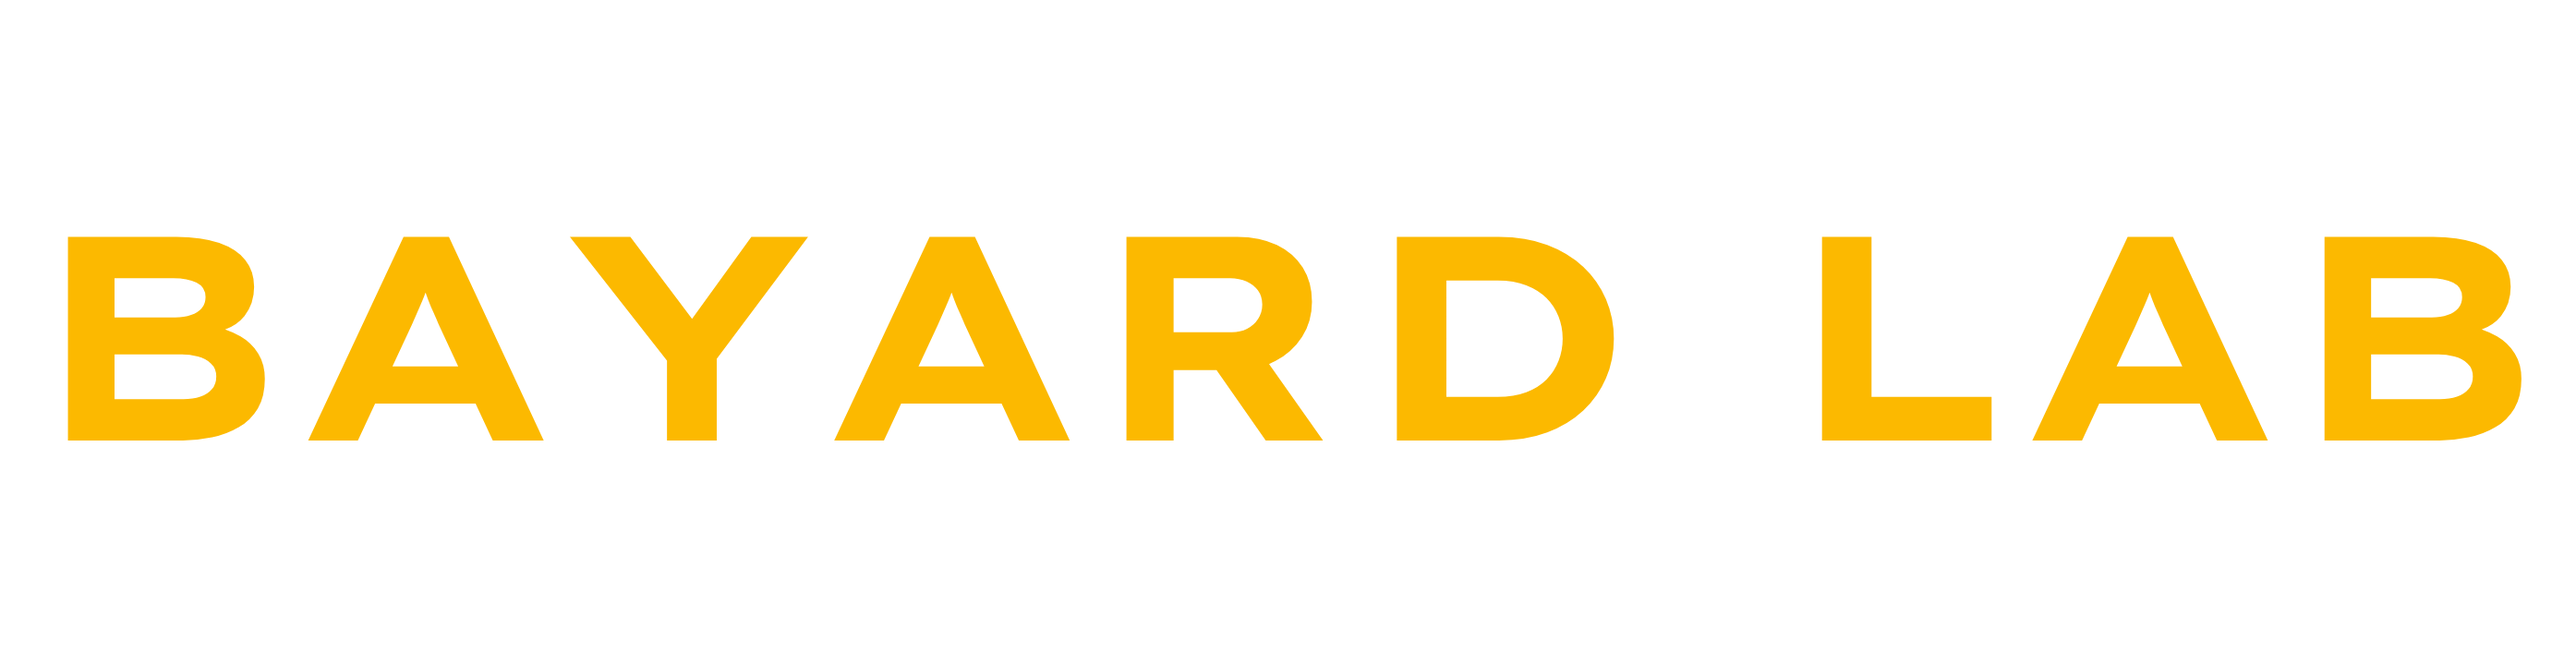
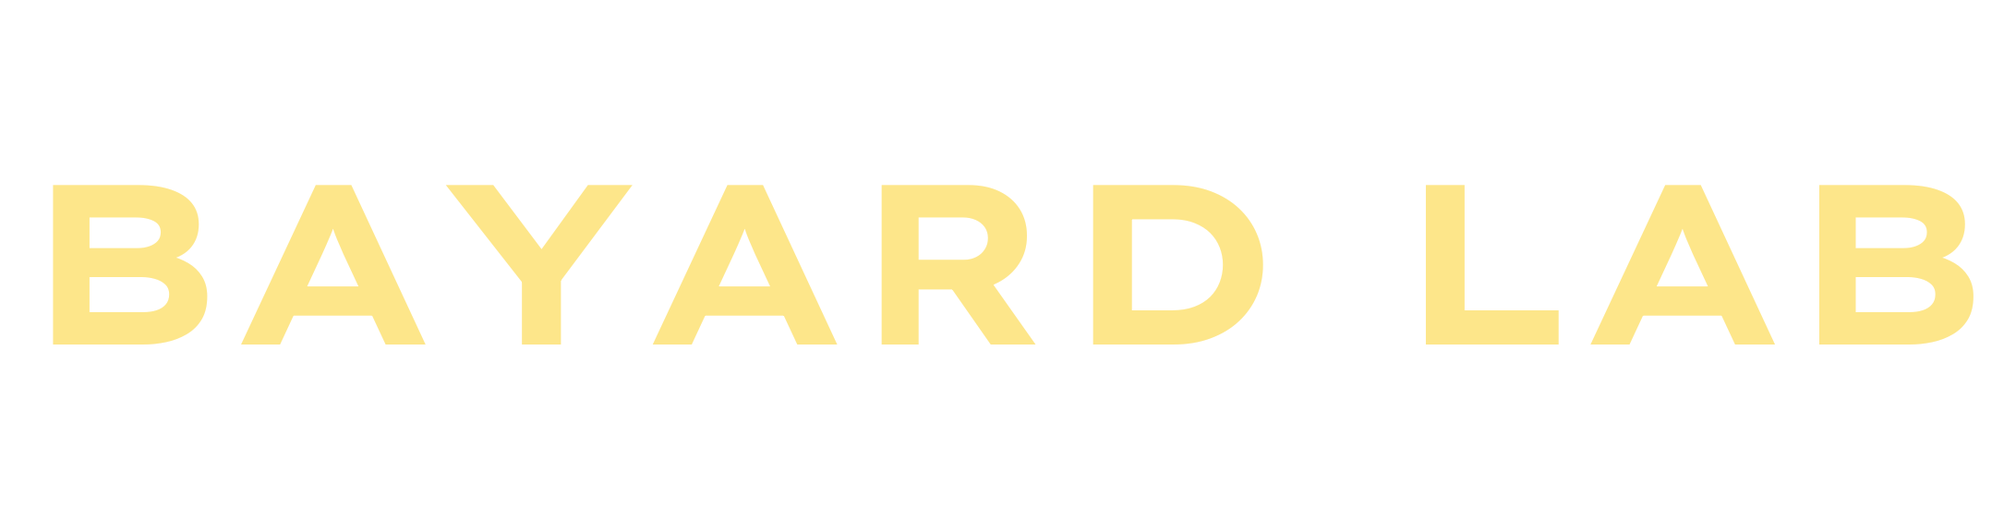
Updates

diff --git a/tailwind.config.ts b/tailwind.config.ts
@@ -33,17 +33,17 @@ const config = {
     extend: {
       colors: {
         amber: {
-          DEFAULT: '#fcb900',
-          '50': '#fef8e6',
-          '100': '#fef0cd',
-          '200': '#fde49b',
-          '300': '#fcd868',
-          '400': '#fccc35',
-          '500': '#fcb900',
-          '600': '#ca9500',
-          '700': '#977000',
-          '800': '#644b00',
-          '900': '#322500',
+          DEFAULT: '#fde68a',
+          '50': '#fef4d7',
+          '100': '#feefc6',
+          '200': '#fde9b5',
+          '300': '#fde4a4',
+          '400': '#fde093',
+          '500': '#fde68a',
+          '600': '#fcd97a',
+          '700': '#fbcc6a',
+          '800': '#fabe59',
+          '900': '#f8b149',
         },
         border: "hsl(var(--border))",
         input: "hsl(var(--input))",

diff --git a/components/ui/ProgressBar.tsx b/components/ui/ProgressBar.tsx
@@ -1,0 +1,14 @@
+// components/ProgressBar.tsx
+import React from 'react';
+
+interface ProgressBarProps {
+progress: number;
+}
+
+const ProgressBar: React.FC<ProgressBarProps> = ({ progress }) => {
+return (
+    <div className="fixed top-0 left-0 right-0 h-1 bg-amber-500 transition-all duration-300 ease-in-out" style={{ width: `${progress}%` }} />
+);
+};
+
+export default ProgressBar;
